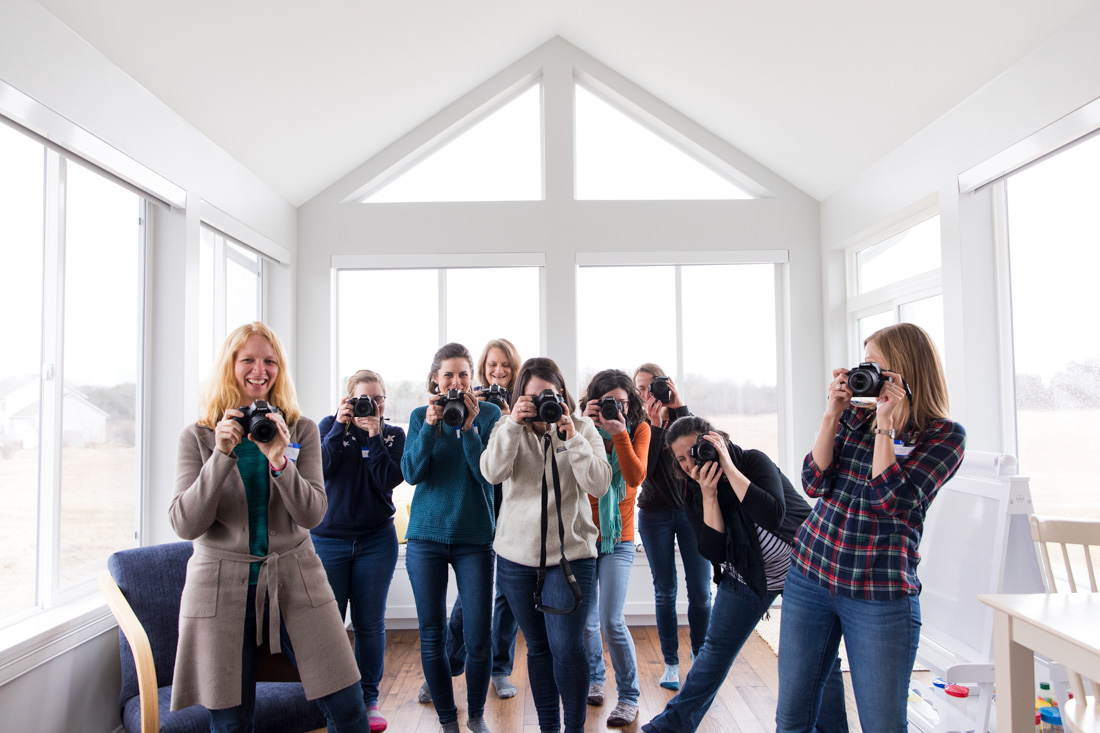
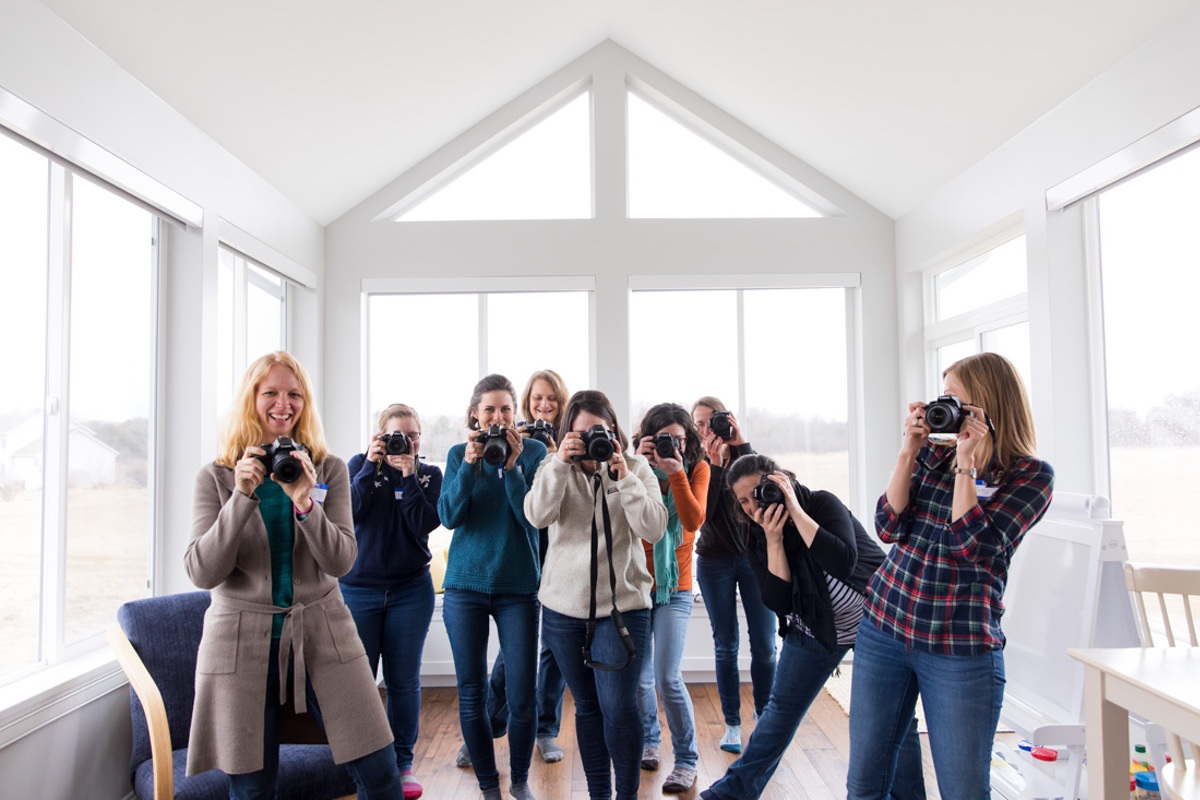
compressed service images refactored service hover

diff --git a/css/components/_services.scss b/css/components/_services.scss
@@ -22,6 +22,10 @@
             width: 25%;
             //width: calc(25% - 2em);
             //margin: 1em;
+
+            h3 {
+                font-size: 1.25rem;
+            }
         }
 
     }
@@ -31,40 +35,54 @@
         text-decoration: none;
         color: inerit;
 
-        &::before {
-            content: '';
-            position: absolute;
-            top: 0;
-            left: 0;
-            right: 0;
-            bottom: 0;
-            border: 2px solid #fff;
-            opacity: 0;
-            transition: 300ms ease-in-out;
-            transform-origin: center;
-            z-index: 1;
-            pointer-events: none;
-        }
+        // &::before {
+        //     content: '';
+        //     position: absolute;
+        //     top: 0;
+        //     left: 0;
+        //     right: 0;
+        //     bottom: 0;
+        //     border: 2px solid #fff;
+        //     opacity: 0;
+        //     transition: 300ms ease-in-out;
+        //     transform-origin: center;
+        //     z-index: 1;
+        //     pointer-events: none;
+        // }
 
         &:hover,
         &:focus {
 
-            &::before {
-                opacity: 0.5;
-                top: 0.5em;
-                left: 0.5em;
-                right: 0.5em;
-                bottom: 0.5em;
-            }
+            // &::before {
+            //     opacity: 0.5;
+            //     top: 0.5em;
+            //     left: 0.5em;
+            //     right: 0.5em;
+            //     bottom: 0.5em;
+            // }
 
             img {
                 transform: scale(1.08);
+                opacity: 0.85;
             }
         }
     }
 
     .cover {
+        position: relative;
         overflow: hidden;
+
+        &::before {
+            content: '';
+            position: absolute;
+            top: 0;
+            left: 0;
+            width: 100%;
+            height: 100%;
+            background: rgba(0,0,0,0.5);
+            background: linear-gradient(to bottom, transparent 0%, transparent 65%, rgba(0,0,0,0.5));
+            z-index: 2;
+        }
 
         img {
             width: 100%;
@@ -77,8 +95,14 @@
         bottom: 0;
         left: 0;
         width: 100%;
-        padding :1em;
+        padding: 1em;
         color: #fff;
+        z-index: 3;
+
+        h2, h3 {
+            margin: 0;
+            text-shadow: 0 0 1px rgba(0,0,0,0.5);
+        }
     }
 
 }

diff --git a/css/style.css b/css/style.css
@@ -1749,41 +1749,36 @@ input[type="submit"].button {
   width: 25%;
 }
 
+.services .group.small .item h3 {
+  font-size: 1.25rem;
+}
+
 .services .item {
   position: relative;
   text-decoration: none;
   color: inerit;
 }
 
-.services .item::before {
+.services .item:hover img, .services .item:focus img {
+  transform: scale(1.08);
+  opacity: 0.85;
+}
+
+.services .cover {
+  position: relative;
+  overflow: hidden;
+}
+
+.services .cover::before {
   content: '';
   position: absolute;
   top: 0;
   left: 0;
-  right: 0;
-  bottom: 0;
-  border: 2px solid #fff;
-  opacity: 0;
-  transition: 300ms ease-in-out;
-  transform-origin: center;
-  z-index: 1;
-  pointer-events: none;
-}
-
-.services .item:hover::before, .services .item:focus::before {
-  opacity: 0.5;
-  top: 0.5em;
-  left: 0.5em;
-  right: 0.5em;
-  bottom: 0.5em;
-}
-
-.services .item:hover img, .services .item:focus img {
-  transform: scale(1.08);
-}
-
-.services .cover {
-  overflow: hidden;
+  width: 100%;
+  height: 100%;
+  background: rgba(0, 0, 0, 0.5);
+  background: linear-gradient(to bottom, transparent 0%, transparent 65%, rgba(0, 0, 0, 0.5));
+  z-index: 2;
 }
 
 .services .cover img {
@@ -1798,6 +1793,12 @@ input[type="submit"].button {
   width: 100%;
   padding: 1em;
   color: #fff;
+  z-index: 3;
+}
+
+.services .info h2, .services .info h3 {
+  margin: 0;
+  text-shadow: 0 0 1px rgba(0, 0, 0, 0.5);
 }
 
 .testimonials.testimonials-widget {
